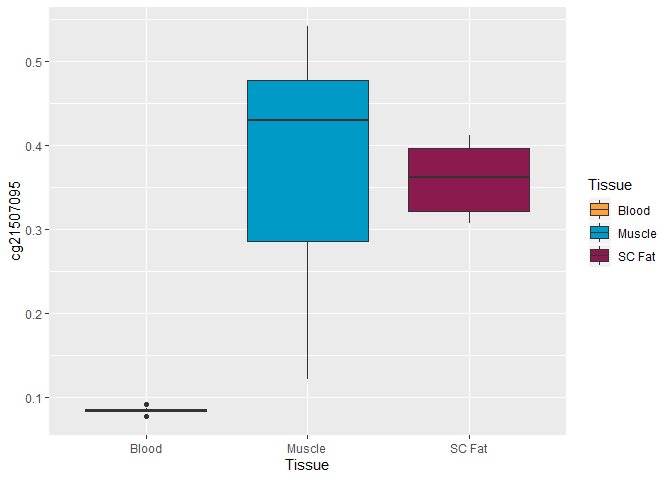
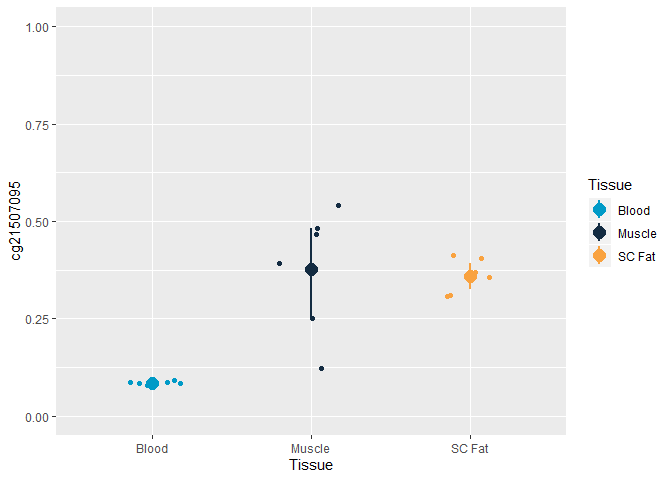
Update with new questions

diff --git a/FOS_2019_withOutput.md b/FOS_2019_withOutput.md
@@ -85,9 +85,11 @@ calculate the mean methylation and standard deviation for the tissues.
 Do you think that these differences are biologically relevant?**
 
 ``` r
-ggplot(TissueData, aes(x=Tissue, y=cg21507095, fill=Tissue))+ # Assign variables to x, y, and fill
-    geom_boxplot()+ # Make a boxplot
-    scale_fill_manual(values=c("#F9A23F","#009AC7","#8B1A4F")) # Give custom colors to the boxes using HEX colors
+ggplot(TissueData, aes(x=Tissue, y=cg21507095, color=Tissue))+ # Assign variables to x, y, and fill
+  stat_summary(fun.data = "mean_cl_boot",  size = 1)+
+  geom_jitter(width=0.2)+
+  scale_colour_manual(values=c("#009AC7","#132B41","#F9A23F"))+ # Give custom colors to the boxes using HEX colors
+  ylim(0,1)
 ```
 
 ![](FOS_2019_withOutput_files/figure-gfm/Q1B-1.png)<!-- -->
@@ -149,6 +151,22 @@ they are defined ( right click on the CpG island track, Show details).**
 out: (1) in which gene the CpG is located, (2) what part of the gene it
 is located (intron, exon, etc.) and (3) whether it is located in a CpG
 island.**
+
+**F Navigate to the EWAS datahub
+(<https://bigd.big.ac.cn/ewas/datahub>), search for cg21507095. Click on
+tissue and compare/validate your findings.**
+
+![Tissue](EWAS_Datahub_cg21507095_tissue.png)
+
+**G Navigate to other diseases. From the drop down menu choose type 2
+diabetes. Is there a difference? Is it significant?**
+
+![Diabetes](cg21507095.png)
+
+**H TBX1 has been suggested to play a role in obesity. Go to the BMI tab
+look at the different tissues. What do you conclude?**
+
+![BMI](dna-methylation-changes.png)
 
 ## Question 2
 
@@ -498,13 +516,40 @@ Calculate the odds ratio for proximal promoters, what do you conclude?**
 ``` r
 #Calculate a
 a <- table(TissueData22sign$Gene_centric)["Proximal promoter"]
-n.prox <- table(TissueData22$Gene_centric)["Proximal promoter"]
+a
+```
 
+    ## Proximal promoter 
+    ##               465
+
+``` r
+n.prox <- table(TissueData22$Gene_centric)["Proximal promoter"]
+n.prox
+```
+
+    ## Proximal promoter 
+    ##              4244
+
+``` r
 #Calculate b-d
 b <- n.prox - a
 c <- 1805 - a
 d <- 8463 - a - b - c
+```
 
+**2x2 table**
+
+``` r
+matrix(c(a,b,c,d), ncol=2, byrow = T)
+```
+
+    ##      [,1] [,2]
+    ## [1,]  465 3779
+    ## [2,] 1340 2879
+
+**Odds ratio**
+
+``` r
 #Now calculate the odds ratio
 OR <- (a/b)/(c/d)
 
@@ -577,35 +622,37 @@ statistical evidence for differential methylation.**
 In which gene centric / CGI centric feature are the top-hits? Also
 see/use question 2C.**
 
-**D Zoom out in UCSC for both top-hits. Is the differential methylation
+**D Go through question 1f-h again for the tophit. What do you observe**
+
+**E Zoom out in UCSC for both top-hits. Is the differential methylation
 limited to a single CpG site or does it extend across a region (Use the
 custom track from 4B)? Does this influence your interest in the two CpGs
 and why?**
 
-**E The second lowest top-hit maps to the PARVG gene. How many different
+**F The second lowest top-hit maps to the PARVG gene. How many different
 transcripts can arise from this gene (track UCSC genes)? Do you observe
 differential methylation near alternative transcript start sites for the
 gene?**
 
-**F Look up the nearest gene of the tophits in GeneCards
+**G Look up the nearest gene of the tophits in GeneCards
 (www.genecards.org). Look at the protein expression and the mRNA
 expression for the three tissues studied if available. Is the gene
 expressed in a tissue-specific fashion?**
 
-**G To gain insight into gene function related to differentially
+**H To gain insight into gene function related to differentially
 methylation you can use GREAT (Genomic Regions Enrichment of Annotations
-Tool). Go to the GREAT website
-(<http://bejerano.stanford.edu/great/public/html/index.php>). Select
-human hg19/ GRCh37. Select all significant CpG sites from the csv file
-and copy the chromosome, start and end column and paste that into test
-regions (after clicking BED data). Also, copy all CpG sites and paste
-that into background regions (click BED data). Click Show Settings and
-select single nearest gene. Click submit and wait (may take some time)
-until the site has calculated the enrichment in gene categories
+Tool). Go to the GREAT
+website(<http://bejerano.stanford.edu/great/public/html/index.php>).
+Select human hg19/ GRCh37. Select all significant CpG sites from the csv
+file and copy the chromosome, start and end column and paste that into
+test regions (after clicking BED data). Also, copy all CpG sites and
+paste that into background regions (click BED data). Click Show Settings
+and select single nearest gene. Click submit and wait (may take some
+time) until the site has calculated the enrichment in gene categories
 (Biological processes). Which biological processes are enriched for
 differential methylation? How does that relate to the tissues studied?**
 
-## Question 5
+## Question 5 (Facultative)
 
 **There is increasing evidence that DNA methylation is associated with
 alternative transcription events. A paper showed that there is a role
